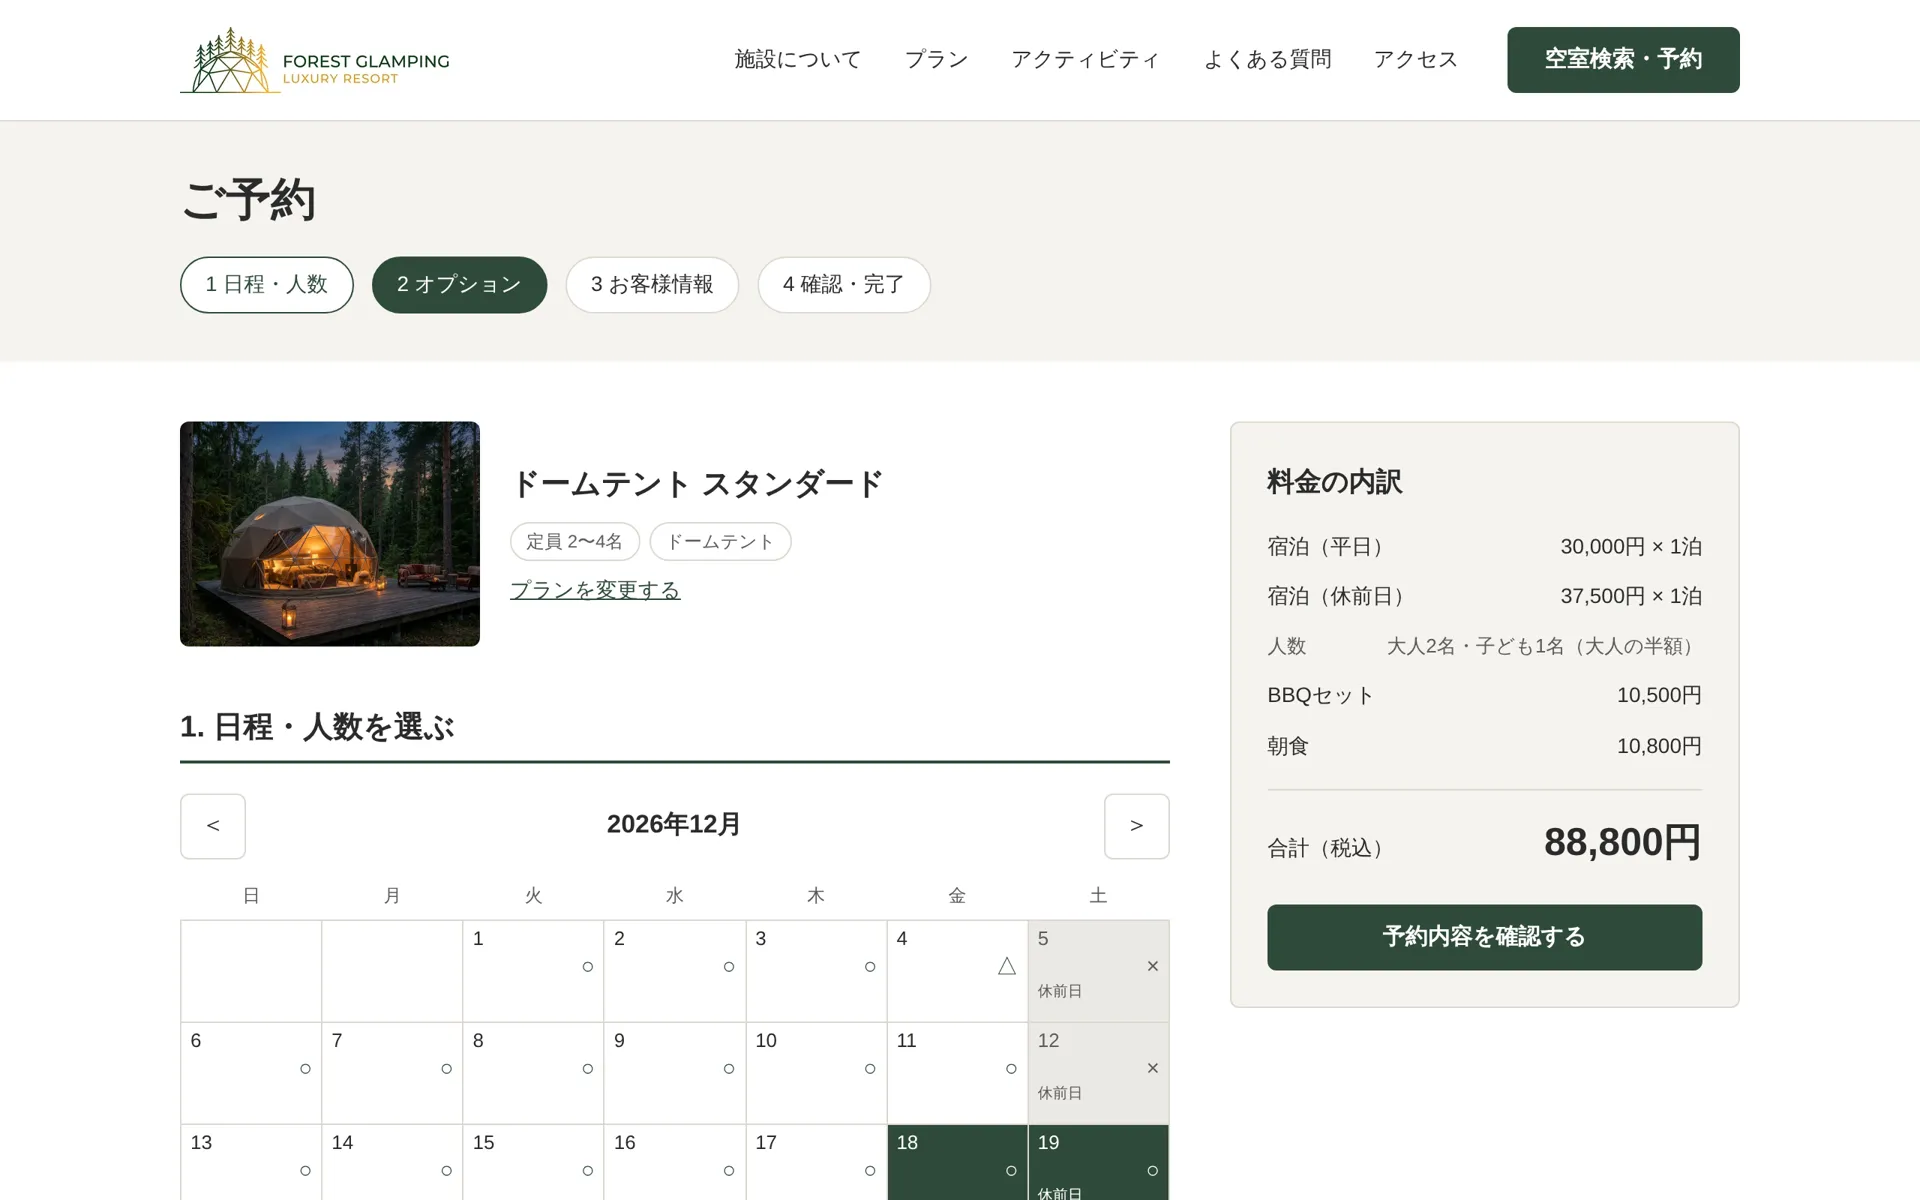
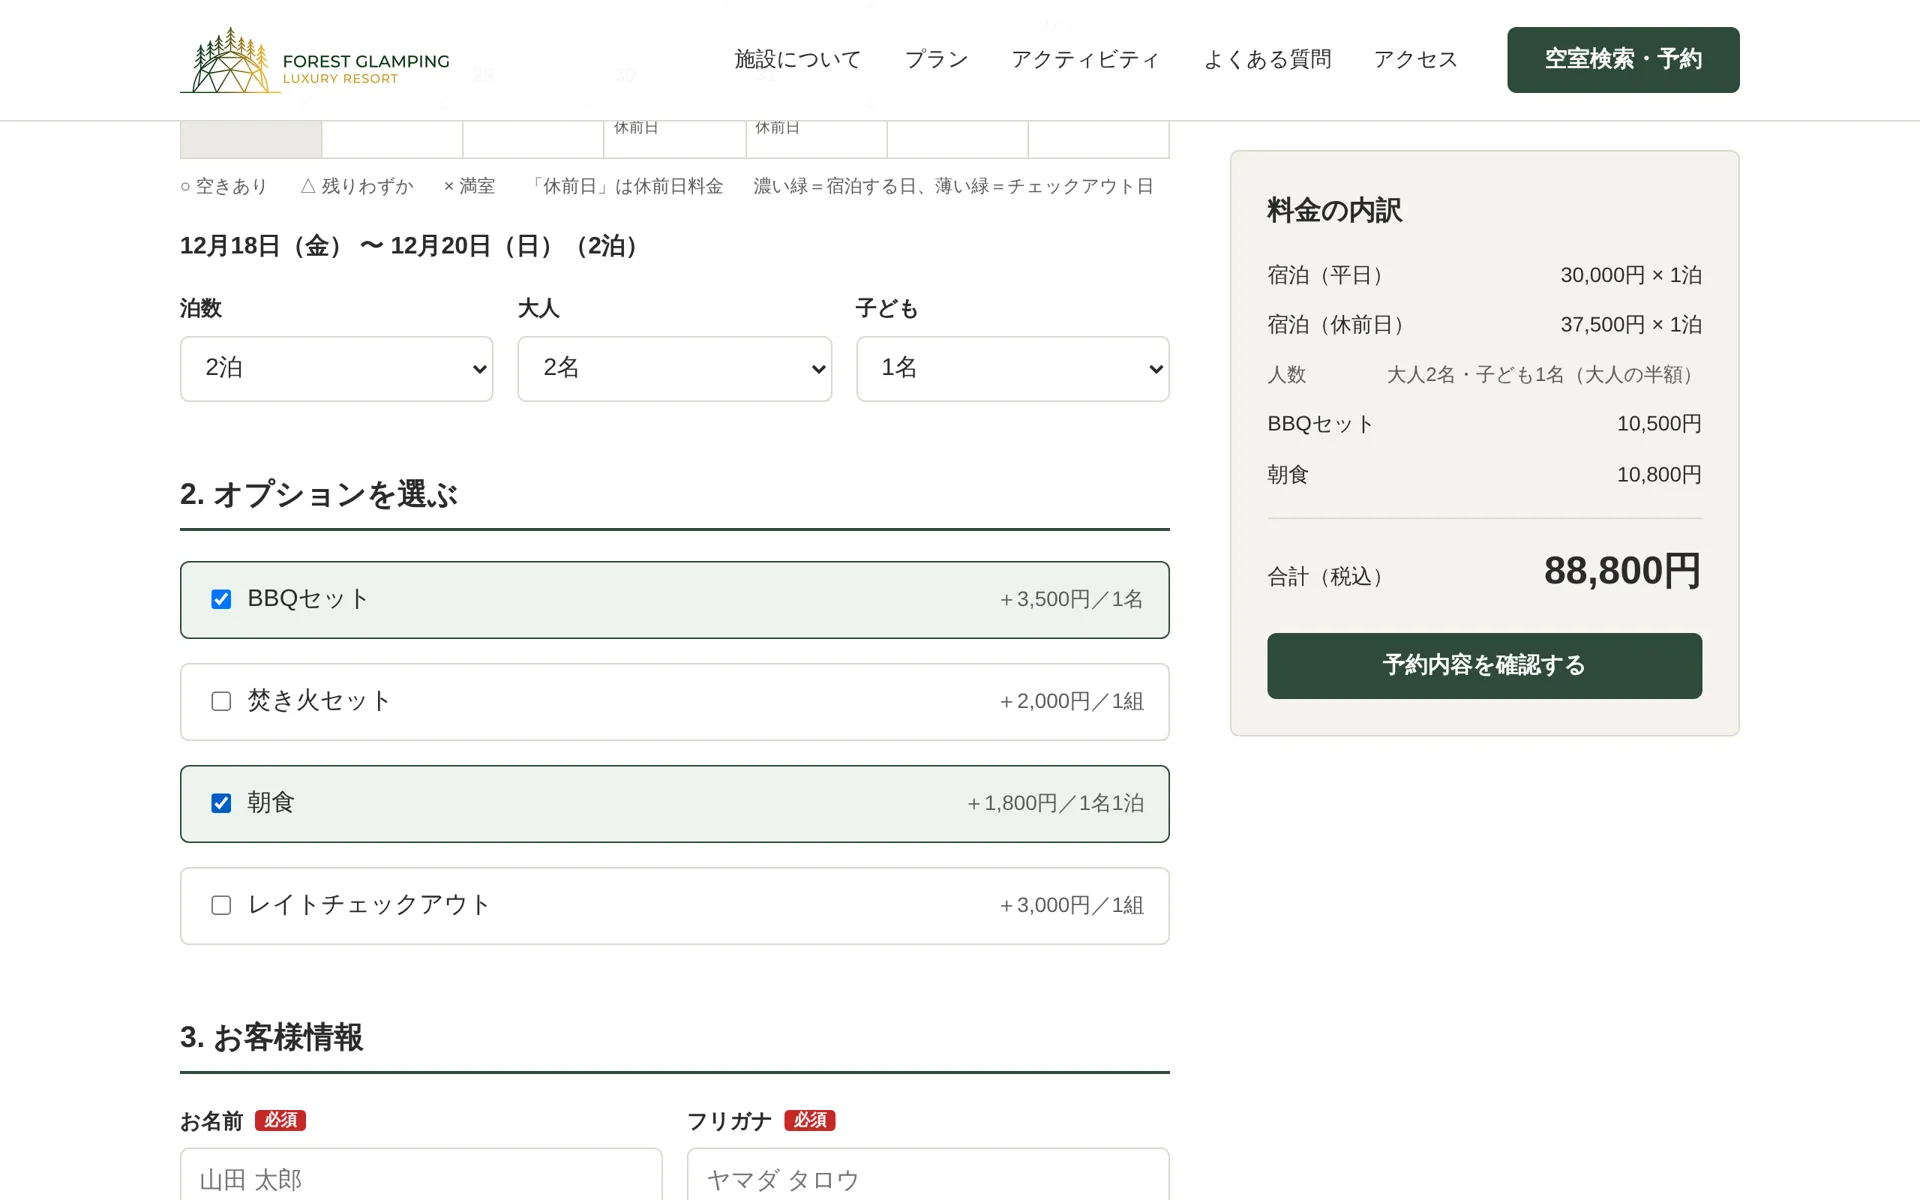
READMEのスクリーンショットを最新の画面に更新し、確認ポップアップと完了ページを追加
Claude-Session: https://claude.ai/code/session_01JjfEKkgsf5w8T9sGPCP99F

diff --git a/README.md b/README.md
@@ -41,6 +41,14 @@
     <td align="center">お客様情報の入力チェック</td>
     <td align="center">スマホ表示</td>
   </tr>
+  <tr>
+    <td><img src="docs/images/confirm.webp" alt="予約内容の確認ポップアップ" /></td>
+    <td><img src="docs/images/complete.webp" alt="予約完了ページ" /></td>
+  </tr>
+  <tr>
+    <td align="center">予約内容の確認ポップアップ</td>
+    <td align="center">予約完了ページ（予約番号の発行）</td>
+  </tr>
 </table>
 
 ---
